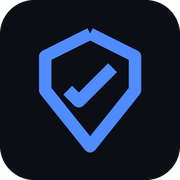
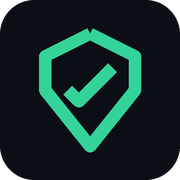
Swap accent color from blue to mint green
Match the reference "CSume" portfolio template's professional cyber
security palette by updating the CSS accent variables and regenerating
the favicon to match.

Changed region(s): [[0.1944, 0.1389, 0.8056, 0.8611]]

diff --git a/css/style.css b/css/style.css
@@ -9,10 +9,10 @@
     --text: #e4e7ec;
     --text-muted: #9aa3b2;
     --text-dim: #6b7280;
-    --accent: #4f8cff;
-    --accent-hover: #74a4ff;
-    --accent-soft: rgba(79, 140, 255, 0.12);
-    --accent-border: rgba(79, 140, 255, 0.4);
+    --accent: #34d399;
+    --accent-hover: #6ee7b7;
+    --accent-soft: rgba(52, 211, 153, 0.12);
+    --accent-border: rgba(52, 211, 153, 0.4);
     --font-sans: 'Inter', -apple-system, BlinkMacSystemFont, sans-serif;
     --font-mono: 'JetBrains Mono', 'Courier New', monospace;
 }
